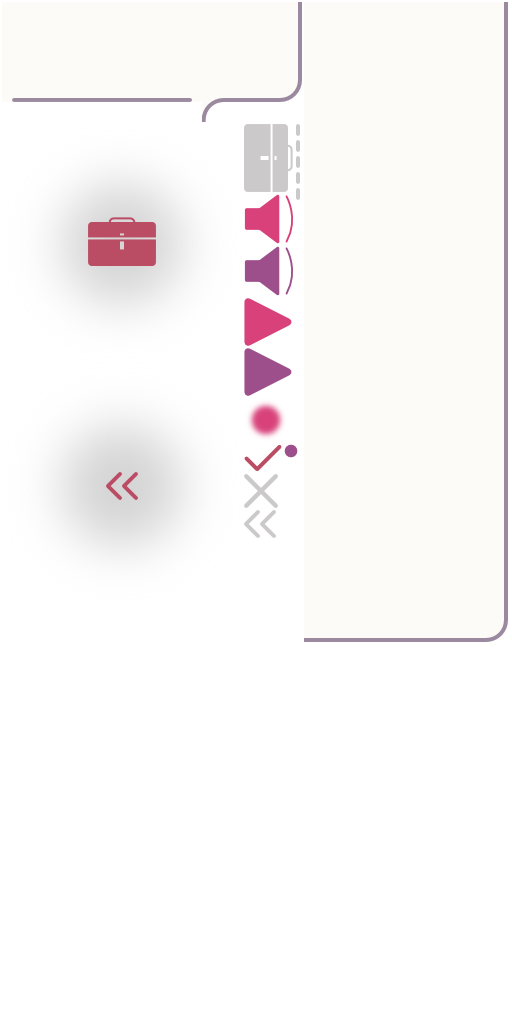
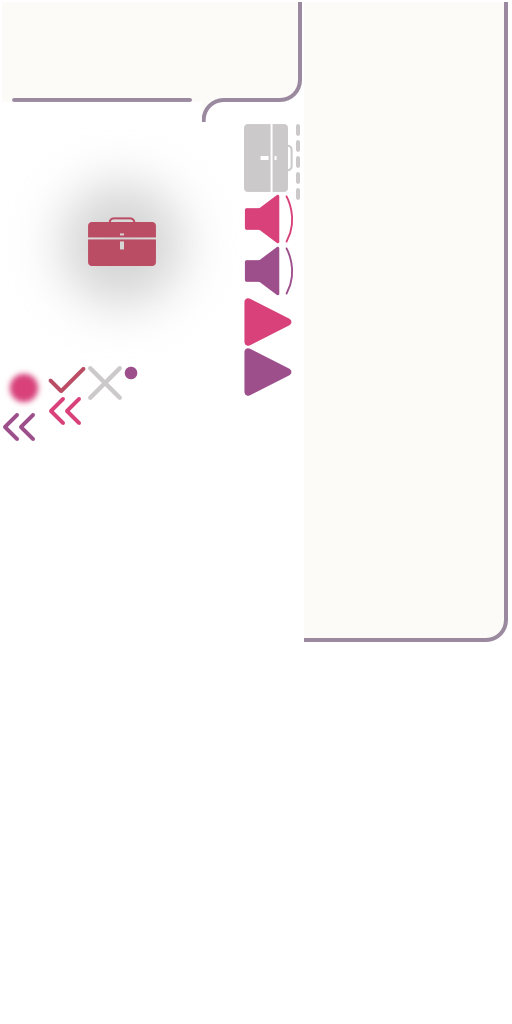
audio boxes - moveable and static

Changed region(s): [[0.0, 0.3438, 0.3438, 0.5312], [0.4688, 0.375, 0.5938, 0.5312]]

diff --git a/PttrnFlow/PttrnFlow/Layers/SequenceLayer.m b/PttrnFlow/PttrnFlow/Layers/SequenceLayer.m
@@ -189,9 +189,9 @@
         [self addChild:self.audioTouchDispatcher];
         
         // create puzzle objects
-//        [self createPuzzleObjects:1];
         self.area = [self createPuzzleArea:sequence];
         [self createPuzzleBorder:sequence];
+        [self createPuzzleObjects:1];
         
         // find optimal scale and position
         CGRect activeWindow = CGRectMake(0, 0, self.contentSize.width, self.contentSize.height - topMargin);
@@ -330,7 +330,8 @@
         
         for (NSDictionary *glyph in glyphs) {
             
-            NSArray *coord = glyph[kCell];
+            NSArray *rawCoord = glyph[kCell];
+            NSArray *coord = @[@([rawCoord[0] intValue] - 1), @([rawCoord[1] intValue] - 1)];
             NSString *entry = glyph[kEntry];
             NSString *arrow = glyph[kArrow];
             NSString *synth = glyph[kSynth];
@@ -345,7 +346,7 @@
             GridCoord cell = GridCoordMake([coord[0] intValue], [coord[1] intValue]);
             
             // audio pad sprite
-            AudioPad *audioPad = [[AudioPad alloc] initWithCell:cell];
+            AudioPad *audioPad = [[AudioPad alloc] initWithCell:cell moveable:!isStatic];
             audioPad.position = [GridUtils relativeMidpointForCell:cell unitSize:kSizeGridUnit];
             [self.tickDispatcher registerAudioResponderCellNode:audioPad];
             [self.audioTouchDispatcher addResponder:audioPad];
@@ -357,11 +358,11 @@
             
             // melody synth
             if (synth != NULL && midi != NULL) {
-                Tone *tone = [[Tone alloc] initWithCell:cell synth:synth midi:midi.stringValue];
-                // [self.tickDispatcher registerAudioResponderCellNode:tone];
-                [self.audioTouchDispatcher addResponder:tone];
-                tone.position = [GridUtils relativeMidpointForCell:cell unitSize:kSizeGridUnit];
-                [self addChild:tone];
+//                Tone *tone = [[Tone alloc] initWithCell:cell synth:synth midi:midi.stringValue];
+//                // [self.tickDispatcher registerAudioResponderCellNode:tone];
+//                [self.audioTouchDispatcher addResponder:tone];
+//                tone.position = [GridUtils relativeMidpointForCell:cell unitSize:kSizeGridUnit];
+//                [self addChild:tone];
             }
             
             // audio sample

diff --git a/PttrnFlow/PttrnFlow/Tick Responders/AudioPad.m b/PttrnFlow/PttrnFlow/Tick Responders/AudioPad.m
@@ -17,11 +17,18 @@
 
 @implementation AudioPad
 
-- (id)initWithCell:(GridCoord)cell
+- (id)initWithCell:(GridCoord)cell moveable:(BOOL)moveable
 {
-    self = [super initWithSpriteFrameName:@"audio_box_off.png" cell:cell];
+    NSString *offFrameName = @"audio_box_off_static.png";
+    NSString *onFrameName = @"audio_box_on_static.png";
+    if (moveable) {
+        _moveable = YES;
+        offFrameName = @"audio_box_off.png";
+        onFrameName = @"audio_box_on.png";
+    }
+    self = [super initWithSpriteFrameName:offFrameName cell:cell];
     if (self) {
-        CCSprite *highlightSprite = [CCSprite spriteWithSpriteFrameName:@"audio_box_on.png"];
+        CCSprite *highlightSprite = [CCSprite spriteWithSpriteFrameName:onFrameName];
         _highlightSprite = highlightSprite;
         highlightSprite.visible = NO;
         highlightSprite.position = ccp(self.contentSize.width / 2, self.contentSize.height / 2);

diff --git a/PttrnFlow/PttrnFlow/Tick Responders/AudioPad.h b/PttrnFlow/PttrnFlow/Tick Responders/AudioPad.h
@@ -11,6 +11,8 @@
 
 @interface AudioPad : GameSprite <AudioResponder>
 
-- (id)initWithCell:(GridCoord)cell;
+@property (assign) BOOL moveable;
+
+- (id)initWithCell:(GridCoord)cell moveable:(BOOL)moveable;
 
 @end
